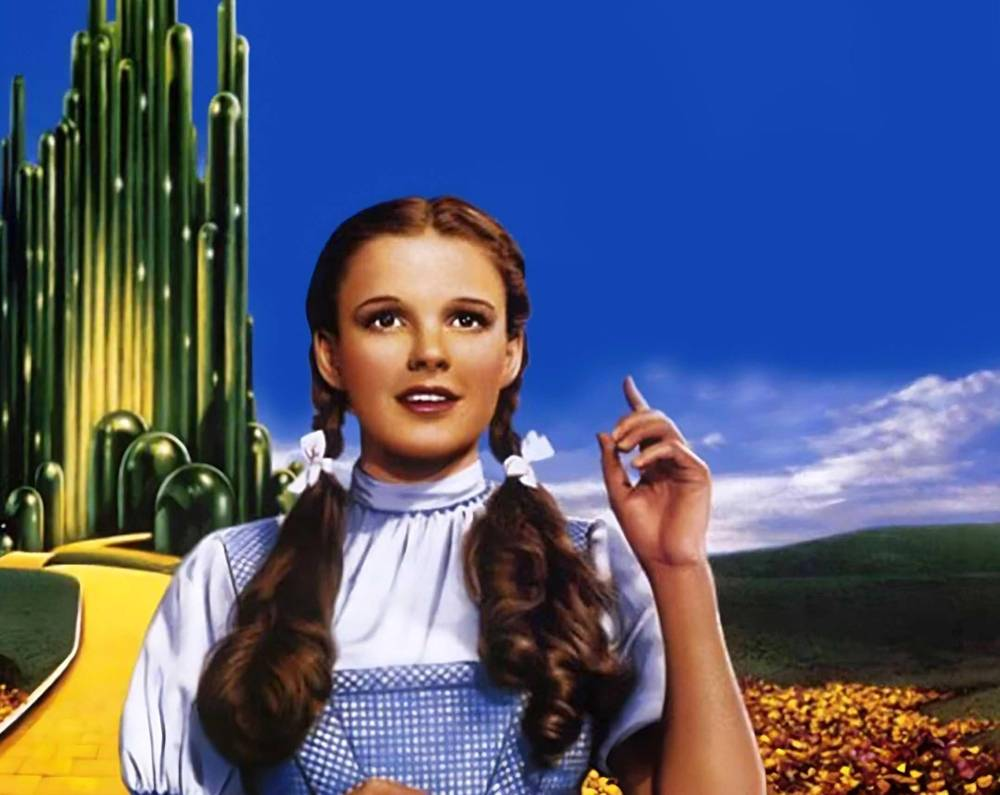
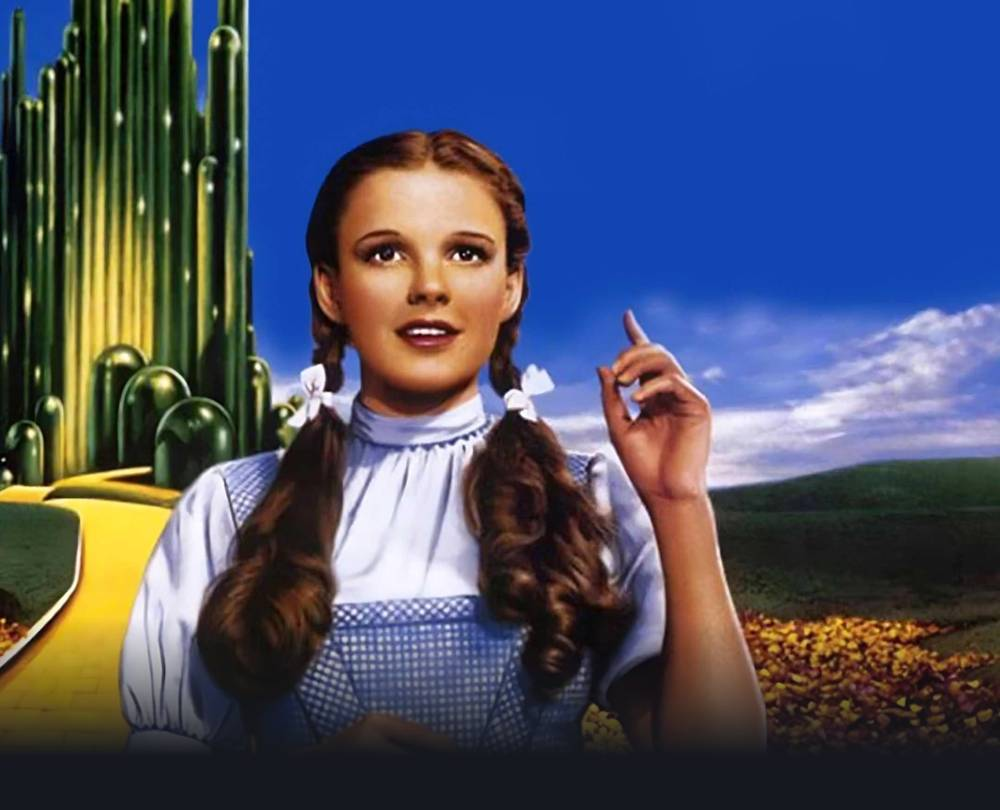
working on dragging

diff --git a/src/App.tsx b/src/App.tsx
@@ -1,11 +1,49 @@
+import { useState, useEffect, useRef } from "react";
+
 import Banner from "./components/Banner";
 import Cards from "./components/Cards";
 
+import s1920 from "./assets/imgs/1920s.jpg";
+import s1930 from "./assets/imgs/1930s.jpg";
+import s1940 from "./assets/imgs/1940s.jpg";
+import s1950 from "./assets/imgs/1950s.jpg";
+import s1960 from "./assets/imgs/1960s.jpg";
+import s1970 from "./assets/imgs/1970s.jpg";
+import s1980 from "./assets/imgs/1980s.jpg";
+import s1990 from "./assets/imgs/1990s.jpg";
+import s2000 from "./assets/imgs/2000s.jpg";
+import s2010 from "./assets/imgs/2010s.jpg";
+import s2020 from "./assets/imgs/2020s.jpg";
+
+import Y1920 from "./components/titles/Y1920";
+import Y1930 from "./components/titles/Y1930";
+
+// Types
+import { Decade } from "./types/types";
+
+const decades: Decade[] = [
+  {
+    titleSVG: <Y1920 />,
+    banner: s1920,
+    backgroundColor: "#1a0a0a",
+  },
+  {
+    titleSVG: <Y1930 />,
+    banner: s1930,
+    backgroundColor: "#15181e",
+  },
+];
+
 function App() {
+  const [currentDecade, setCurrentDecade] = useState(1);
+
   return (
-    <div className="relative max-w-[768px] mx-auto">
-      <Banner />
-      <Cards />
+    <div className={`pb-10 bg-[${decades[currentDecade].backgroundColor}]`}>
+      <div className="h-[20rem] w-[20rem] bg-red-400"></div>
+      {/* <div className="relative max-w-[768px] mx-auto">
+        <Banner decade={decades[currentDecade]} />
+        <Cards />
+      </div> */}
     </div>
   );
 }

diff --git a/src/components/Banner.tsx b/src/components/Banner.tsx
@@ -1,41 +1,15 @@
-import s1920 from "../assets/imgs/1920s.jpg";
-import s1930 from "../assets/imgs/1930s.jpg";
-import s1940 from "../assets/imgs/1940s.jpg";
-import s1950 from "../assets/imgs/1950s.jpg";
-import s1960 from "../assets/imgs/1960s.jpg";
-import s1970 from "../assets/imgs/1970s.jpg";
-import s1980 from "../assets/imgs/1980s.jpg";
-import s1990 from "../assets/imgs/1990s.jpg";
-import s2000 from "../assets/imgs/2000s.jpg";
-import s2010 from "../assets/imgs/2010s.jpg";
-import s2020 from "../assets/imgs/2020s.jpg";
+import { Decade } from "../types/types";
 
-import Y1920 from "./titles/Y1920";
-import Y1930 from "./titles/Y1930";
-
-const bannerImgs = [
-  {
-    title: <Y1920 />,
-    banner: s1920,
-    backgroundColor: "#1a0a0a",
-  },
-  {
-    title: <Y1930 />,
-    banner: s1930,
-    backgroundColor: "#1a0a0a",
-  },
-];
-
-const Banner = () => {
+const Banner = ({ decade }: { decade: Decade }) => {
   return (
     <div className="flex justify-center w-full">
       <div className="relative">
         <img
-          src={bannerImgs[1].banner}
+          src={decade.banner}
           className="h-[400px] object-cover pointer-events-none select-none"
           alt="twenties"
         />
-        {bannerImgs[1].title}
+        {decade.titleSVG}
       </div>
     </div>
   );

diff --git a/src/components/Cards.tsx b/src/components/Cards.tsx
@@ -3,22 +3,20 @@ import movieData from "../assets/data.json";
 
 const Cards = () => {
   return (
-    <>
-      <div className="flex flex-col md:flex-row gap-5 flex-wrap my-10 px-5">
-        {movieData.results.map((movie) => {
-          return (
-            <Card
-              key={movie.id}
-              id={movie.id}
-              title={movie.title}
-              year={movie.release_date.split("-")[0]}
-              desc={movie.overview}
-              poster={movie.poster_path}
-            />
-          );
-        })}
-      </div>
-    </>
+    <div className="flex flex-col md:flex-row gap-5 flex-wrap my-0 px-5">
+      {movieData.results.map((movie) => {
+        return (
+          <Card
+            key={movie.id}
+            id={movie.id}
+            title={movie.title}
+            year={movie.release_date.split("-")[0]}
+            desc={movie.overview}
+            poster={movie.poster_path}
+          />
+        );
+      })}
+    </div>
   );
 };
 

diff --git a/index.html b/index.html
@@ -4,7 +4,7 @@
     <meta charset="UTF-8" />
     <link rel="icon" type="image/svg+xml" href="/vite.svg" />
     <meta name="viewport" content="width=device-width, initial-scale=1.0" />
-    <title>Vite + React + TS</title>
+    <title>Film Finder</title>
   </head>
   <body>
     <div id="root"></div>

diff --git a/src/index.css b/src/index.css
@@ -8,7 +8,6 @@ body {
   margin: 0;
   padding: 0;
   box-sizing: border-box;
-  background-color: #1a0a0a;
   font-family: "Montserrat", sans-serif;
 }
 

diff --git a/src/types/types.ts b/src/types/types.ts
@@ -1,0 +1,5 @@
+export type Decade = {
+  titleSVG: JSX.Element;
+  banner: string;
+  backgroundColor: string;
+};
